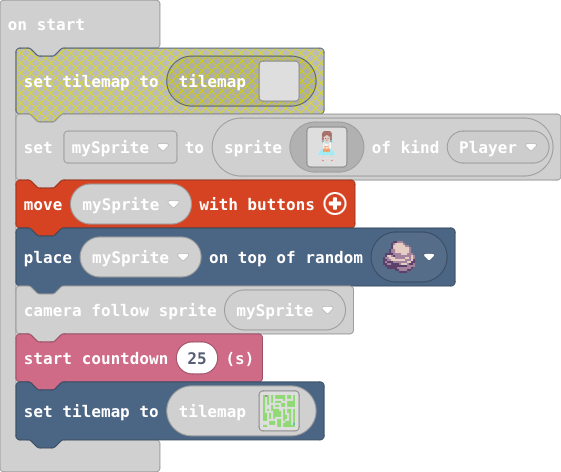
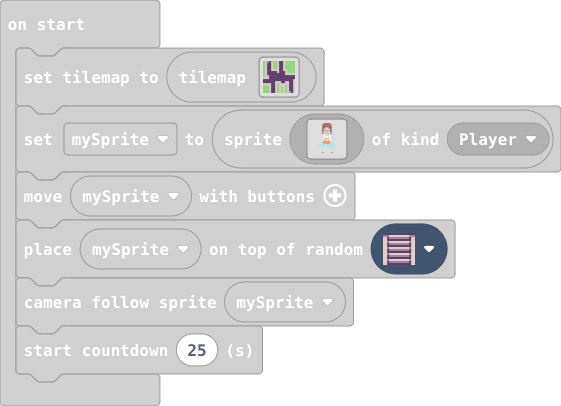
Update main.blocks, main.ts, tilemap.g.jres, tilemap.g.ts

diff --git a/tilemap.g.ts b/tilemap.g.ts
@@ -44,7 +44,7 @@ namespace myTiles {
 . . . . . . . . . . . . . . . . 
 `, [myTiles.transparency16], TileScale.Sixteen);
             case "level2":
-            case "level2":return tiles.createTilemap(hex`1000100002010403010202010306010202020202020103030102020103060102020202020201030301020201030601020202020202010303010202010306010202020202020103030101010103060101020202020201030303030301030303010202020202010000030303060303030101010101020101000303030303030303030303030101010103030306030303030303030303030303030303010303030101030601060606060306010101030301010306010101010103060102010101010103060102020201030601020101010201030601020202010306010201020102010306010202020103060102010201020103060102020201030601020102010201050601`, img`
+            case "level2":return tiles.createTilemap(hex`1000100002010403010202010306010202020202020103030102020103060102020202020201030301020201030601020202020202010303010202010306010202020202020103030101010103060101020202020201030303030301030303010202020202010606030303060303030101010101020101060303030303030303030303030101010603030306030303030303030303030303030303070303030606060601060606060306010101030301010306010101010103060102010101010103060102020201030601020101010201030601020202010306010201020102010306010202020103060102010201020103060102020201030601020102010201050601`, img`
 . 2 . . 2 . . 2 . . 2 . . . . . 
 . 2 . . 2 . . 2 . . 2 . . . . . 
 . 2 . . 2 . . 2 . . 2 . . . . . 
@@ -52,16 +52,16 @@ namespace myTiles {
 . 2 . . . 2 2 2 . . 2 2 . . . . 
 . 2 . . . . . 2 . . . 2 . . . . 
 . 2 . . . . . . . . . 2 2 2 2 2 
-. 2 2 2 . . . . . . . . . . . . 
-2 2 2 2 . . . . . . . . . . . . 
-. . . . . . . 2 . . . 2 2 . . 2 
+. 2 2 . . . . . . . . . . . . . 
+2 2 2 . . . . . . . . . . . . . 
+. . . . . . . . . . . . . . . 2 
 . . . . . . 2 2 2 . . 2 2 . . 2 
 2 2 2 2 . . 2 . 2 2 2 2 2 . . 2 
 . . . 2 . . 2 . 2 2 2 . 2 . . 2 
 . . . 2 . . 2 . 2 . 2 . 2 . . 2 
 . . . 2 . . 2 . 2 . 2 . 2 . . 2 
 . . . 2 . . 2 . 2 . 2 . 2 . . 2 
-`, [myTiles.transparency16,sprites.dungeon.floorLight0,sprites.castle.tileGrass2,sprites.dungeon.darkGroundSouthWest1,sprites.dungeon.stairSouth,sprites.dungeon.collectibleInsignia,sprites.dungeon.darkGroundCenter], TileScale.Sixteen);
+`, [myTiles.transparency16,sprites.dungeon.floorLight0,sprites.castle.tileGrass2,sprites.dungeon.darkGroundSouthWest1,sprites.dungeon.stairSouth,sprites.dungeon.collectibleInsignia,sprites.dungeon.darkGroundCenter,sprites.dungeon.darkGroundEast], TileScale.Sixteen);
         }
         return null;
     })

diff --git a/main.ts b/main.ts
@@ -45,6 +45,6 @@ let mySprite = sprites.create(img`
     .......................................d
     `, SpriteKind.Player)
 controller.moveSprite(mySprite)
-tiles.placeOnRandomTile(mySprite, sprites.castle.rock0)
+tiles.placeOnRandomTile(mySprite, sprites.dungeon.stairSouth)
 scene.cameraFollowSprite(mySprite)
 info.startCountdown(25)
